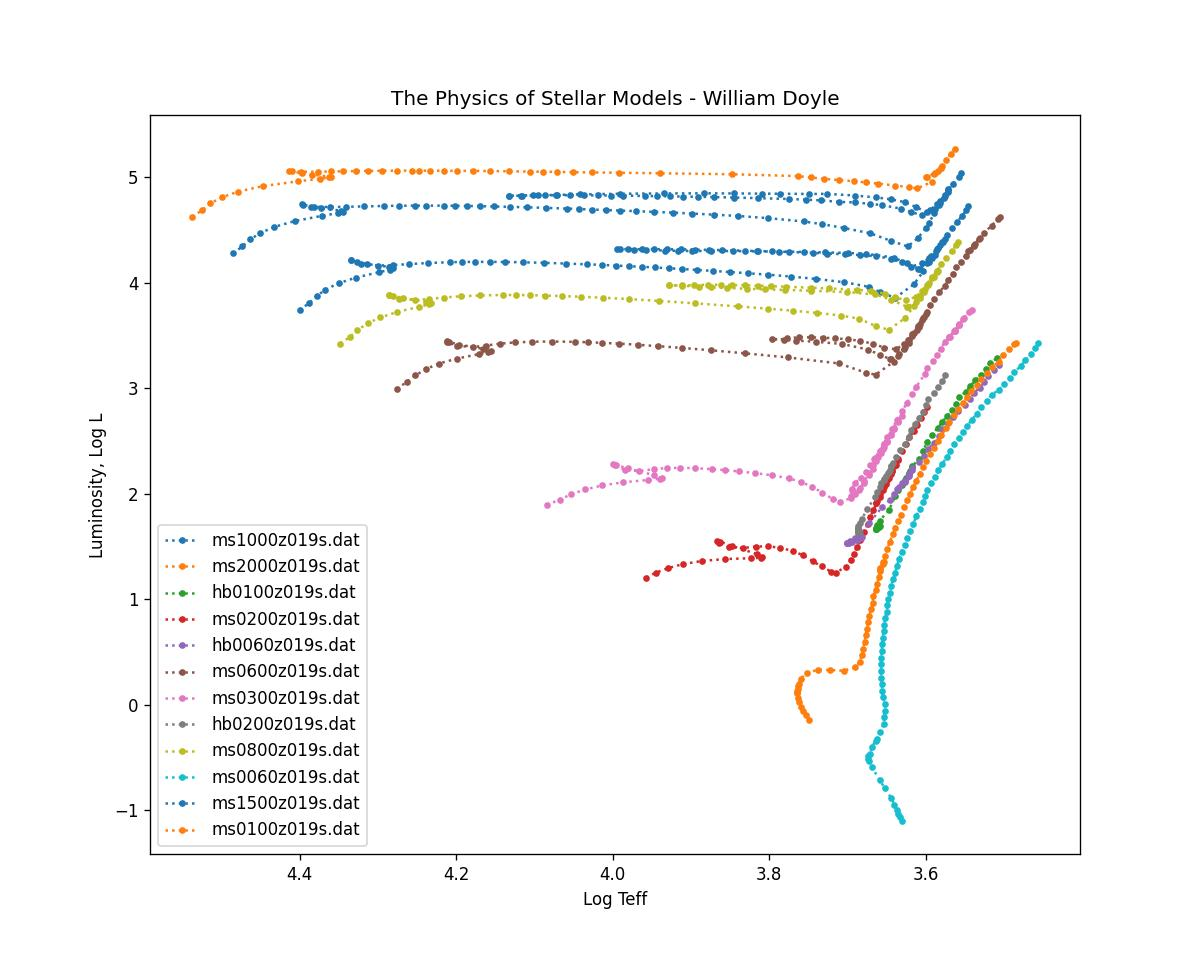
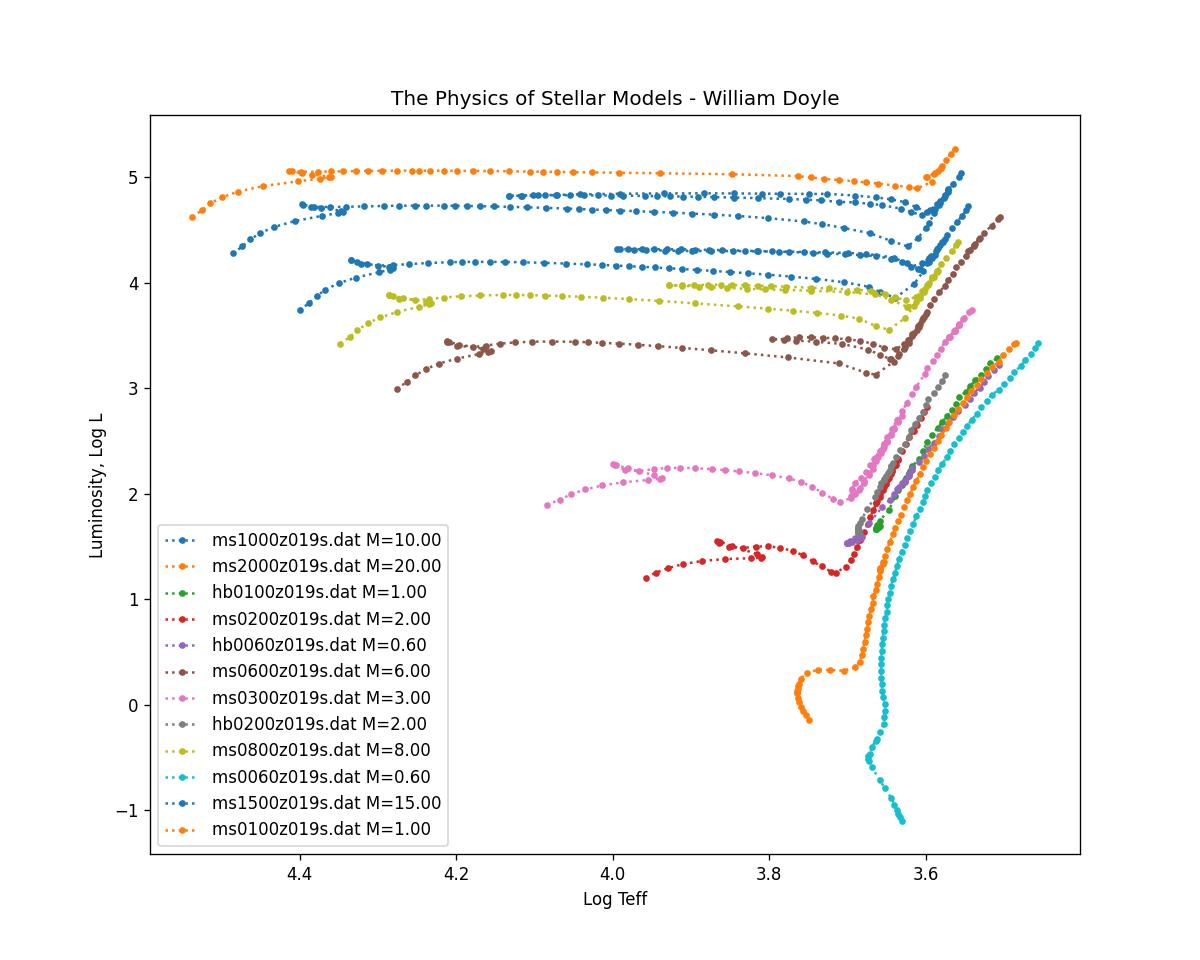
added masses and changed .dat files

Changed region(s): [[0.185, 0.5312, 0.37, 0.875]]

diff --git a/app.py b/app.py
@@ -15,7 +15,14 @@ with os.scandir("data") as it:
             teff = ([float(data.split()[2]) for data in datFile])
             teff.pop(0)
 
-        plt.plot(teff,lum, marker =".", ls="dotted" ,label=entry.name)
+        with open(entry) as datFile:
+            next(datFile)
+            mass = ([(data.split()[20]) for data in datFile])
+            mass = (" "+mass[0])
+            print(mass)
+
+
+        plt.plot(teff,lum, marker =".", ls="dotted" ,label=entry.name + mass)
 
 plt.title("The Physics of Stellar Models - William Doyle")
 plt.ylabel("Luminosity, Log L")
